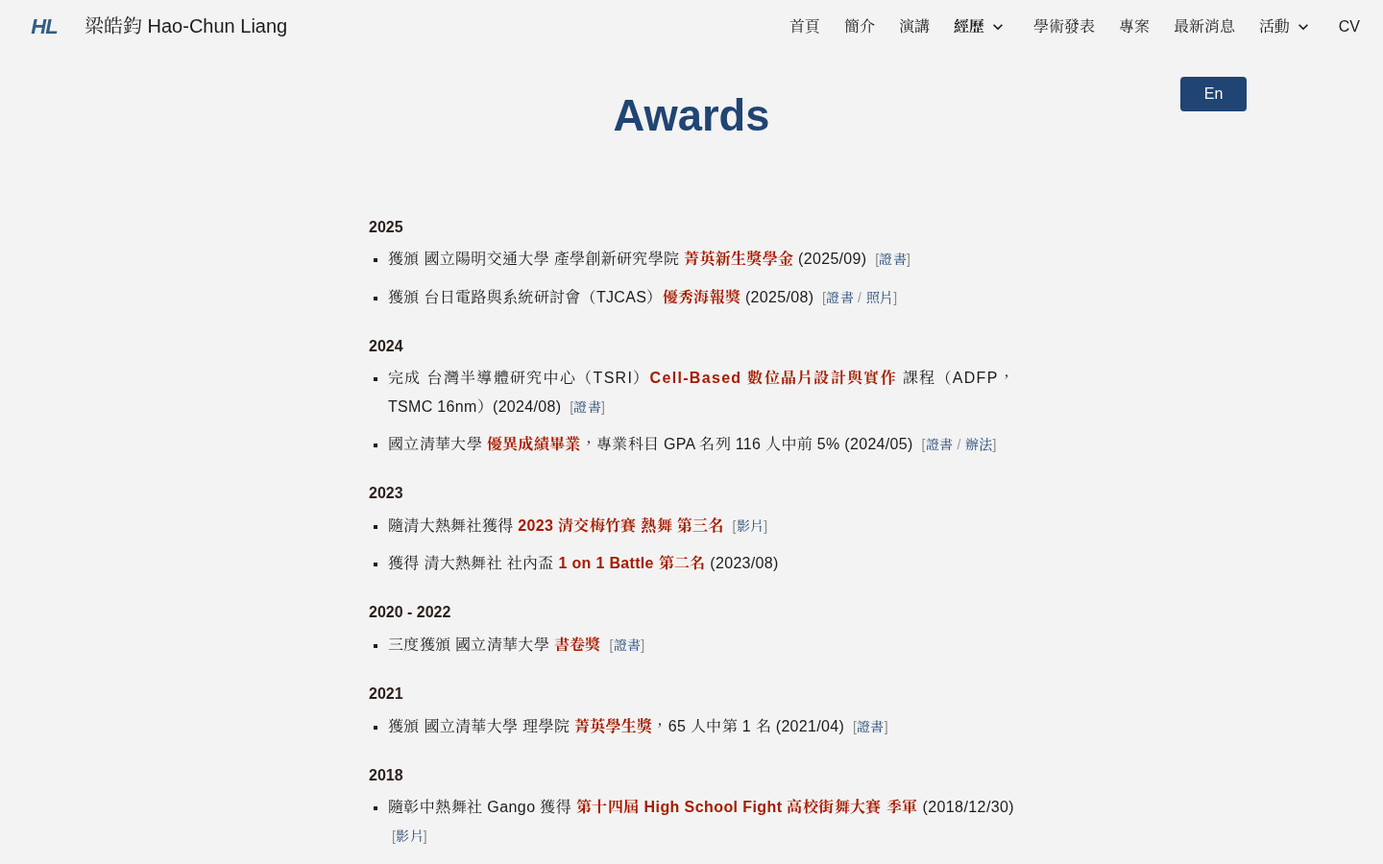
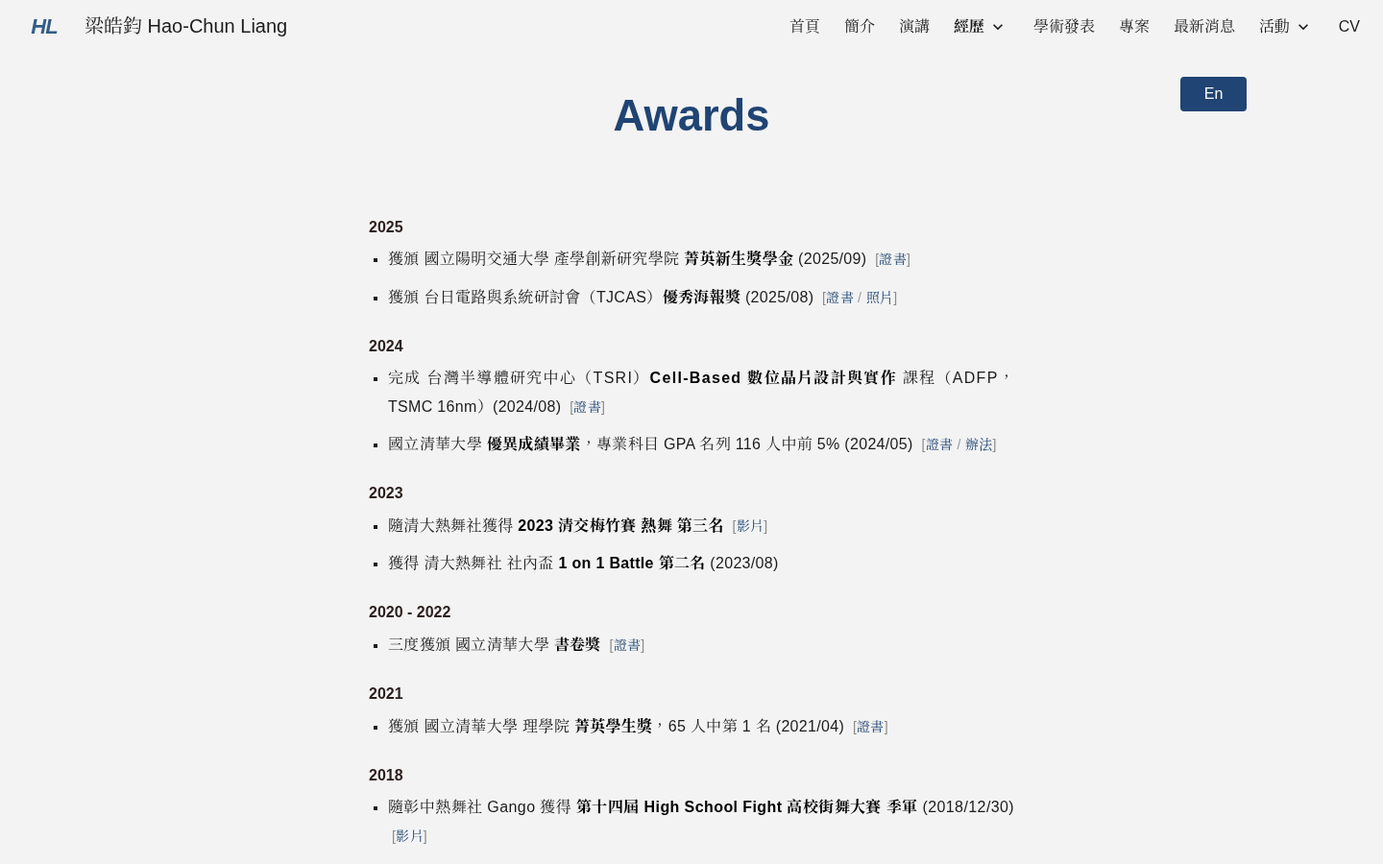
Links and emphasis follow academic convention; internal links land where expected
- Links: navy, regular weight, thin underline (was red bold)
- Red emphasis removed: .hl is plain text except award names on the Awards
  pages (bold black); own author name bold black without underline;
  publication notes gray
- Repeated links on one page keep only the first (Experience, CV, News)
- Awards [Video] jumps to the exact video (Mei-Chu 2023, High School Fight
  2018, Tantui 2015); Gango jumps to the High School section
- CV: paper titles no longer link back to the site; TGDA added with arXiv
- main [id] clears the sticky header. CSS v34

Claude-Session: https://claude.ai/code/session_01YYQQxzKC9fV2djn5XGgtNn

diff --git a/cv/index.html b/cv/index.html
@@ -26,7 +26,7 @@
   <link rel="preconnect" href="https://fonts.googleapis.com">
   <link rel="preconnect" href="https://fonts.gstatic.com" crossorigin>
   <link rel="stylesheet" href="https://fonts.googleapis.com/css2?family=Noto+Serif+TC:wght@400;700&amp;display=swap">
-  <link rel="stylesheet" href="/assets/gsite.css?v=33">
+  <link rel="stylesheet" href="/assets/gsite.css?v=34">
 </head>
 <body>
 
@@ -92,8 +92,8 @@
     <ul class="list">
       <li><a href="https://www.andestech.com/en/" target="_blank" rel="noopener">Andes Technology Corporation</a> Digital IC Design Intern, Compute Acceleration R&amp;D Division, Deep Learning Accelerator <span class="when">(2026/07 - Present)</span></li>
       <li><a href="https://sites.google.com/nycu.edu.tw/pcs-lab/" target="_blank" rel="noopener">Parallel Computing System Laboratory</a>, NYCU, Graduate Research Assistant <span class="when">(2025/09 - 2027/06, exp.)</span></li>
-      <li><a href="https://sites.google.com/nycu.edu.tw/pcs-lab/" target="_blank" rel="noopener">Parallel Computing System Laboratory</a>, NYCU, IT Manager <span class="when">(2025/09 - 2027/06, exp.)</span></li>
-      <li><a href="https://www.andestech.com/en/" target="_blank" rel="noopener">Andes Technology Corporation</a> Digital IC Design Intern, Compute Acceleration R&amp;D Division, Deep Learning Accelerator <span class="when">(2024/11 - 2025/08)</span> <span class="chips"><a class="chip" href="/images/andes-farewell.jpg">Photo</a></span></li>
+      <li>Parallel Computing System Laboratory, NYCU, IT Manager <span class="when">(2025/09 - 2027/06, exp.)</span></li>
+      <li>Andes Technology Corporation Digital IC Design Intern, Compute Acceleration R&amp;D Division, Deep Learning Accelerator <span class="when">(2024/11 - 2025/08)</span> <span class="chips"><a class="chip" href="/images/andes-farewell.jpg">Photo</a></span></li>
     </ul>
   </section>
 
@@ -122,10 +122,11 @@
   <section class="section">
     <h2>Selected Publications</h2>
     <ol class="cite-list">
-      <li><span class="me">Hao-Chun Liang</span>, Yuan-Tang Chou, Bo-Cheng Lai, "<a href="/publications/#fastml-gpu-tracking">Real-Time GPU Kalman-Filter Tracking via Kernel Refactoring and INT8 Surrogates for High-Luminosity Colliders</a>," <span class="venue">Fast Machine Learning for Science Conference, ETH Zurich, 2025</span>. <span class="note">(First Author)</span></li>
-      <li>Yun-Chen Yang, <span class="me">Hao-Chun Liang</span>, Hsuan-Wei Yu, Edwin Arkel Rios, Santosh Parajuli, Mark S. Neubauer, Shih-Chieh Hsu, Bo-Cheng Lai, "<a href="/publications/#unitrac">UniTrac: A Unified FPGA Accelerator for GNN-based Particle Track Reconstruction in HEPs</a>," <span class="venue">ACM Transactions on Reconfigurable Technology and Systems, 2026</span>. <span class="note">(Accepted; Corresponding Author)</span></li>
-      <li>Yun-Chen Yang, <span class="me">Hao-Chun Liang</span>, Bo-Cheng Lai, "<a href="/publications/#gnn-fpga-vlsi">A High-Performance Implementation of GNN-Based Trajectory Reconstruction on FPGA</a>," <span class="venue">VLSI Design / CAD Symposium, 2025</span>.</li>
-      <li>Yun-Chen Yang, <span class="me">Hao-Chun Liang</span>, Hsuan-Wei Yu, Bo-Cheng Lai, Shih-Chieh Hsu, Mark Neubauer, Santosh Parajuli, "<a href="/publications/#higtr-tjcas">An Integrated FPGA Implementation of Complete GNN-Based Trajectory Reconstruction</a>," <span class="venue">Taiwan and Japan Conference on Circuits and Systems, 2025</span>. <span class="note">(Excellent Poster Award)</span></li>
+      <li><span class="me">Hao-Chun Liang</span>, Yuan-Tang Chou, Bo-Cheng Lai, "Real-Time GPU Kalman-Filter Tracking via Kernel Refactoring and INT8 Surrogates for High-Luminosity Colliders," <span class="venue">Fast Machine Learning for Science Conference, ETH Zurich, 2025</span>. <span class="note">(First Author)</span></li>
+      <li>Yun-Chen Yang, <span class="me">Hao-Chun Liang</span>, Hsuan-Wei Yu, Edwin Arkel Rios, Santosh Parajuli, Mark S. Neubauer, Shih-Chieh Hsu, Bo-Cheng Lai, "UniTrac: A Unified FPGA Accelerator for GNN-based Particle Track Reconstruction in HEPs," <span class="venue">ACM Transactions on Reconfigurable Technology and Systems, 2026</span>. <span class="note">(Accepted; Corresponding Author)</span></li>
+      <li>Edwin Arkel Rios, Fernando Mikael, Oswin Gosal, Femiloye Oyerinde, Chi-Jui Chen, <span class="me">Hao-Chun Liang</span>, Pronay Sarker, Bo-Cheng Lai, Min-Chun Hu, "Towards Fine-Grained Image Recognition from Scratch with Teacher-Guided Data Augmentation," <span class="venue">ACCV 2026 Workshop on Learning from Small Data in Computer Vision (LFSD-CV), 2026</span>. <span class="note">(Accepted; Sixth Author)</span> <span class="chips"><a class="chip" href="https://arxiv.org/abs/2507.12157" target="_blank" rel="noopener">arXiv</a></span></li>
+      <li>Yun-Chen Yang, <span class="me">Hao-Chun Liang</span>, Bo-Cheng Lai, "A High-Performance Implementation of GNN-Based Trajectory Reconstruction on FPGA," <span class="venue">VLSI Design / CAD Symposium, 2025</span>.</li>
+      <li>Yun-Chen Yang, <span class="me">Hao-Chun Liang</span>, Hsuan-Wei Yu, Bo-Cheng Lai, Shih-Chieh Hsu, Mark Neubauer, Santosh Parajuli, "An Integrated FPGA Implementation of Complete GNN-Based Trajectory Reconstruction," <span class="venue">Taiwan and Japan Conference on Circuits and Systems, 2025</span>. <span class="note">(Excellent Poster Award)</span></li>
     </ol>
   </section>
 

diff --git a/assets/gsite.css b/assets/gsite.css
@@ -61,8 +61,9 @@ body > main { flex: 1 0 auto; }
 
 img { max-width: 100%; height: auto; display: block; }
 
-a { color: var(--red); font-weight: 700; text-decoration: underline; text-underline-offset: 2px; }
-a:hover { color: #7a1400; }
+/* Owner ruling 2026-11-17: links are navy, regular weight, thin underline (academic convention) */
+a { color: var(--navy); font-weight: 400; text-decoration: underline; text-decoration-thickness: 1px; text-underline-offset: 3px; text-decoration-color: rgba(32, 68, 115, 0.45); }
+a:hover { color: #142c4d; text-decoration-color: currentColor; }
 a:focus-visible,
 button:focus-visible { outline: 2px solid var(--navy); outline-offset: 2px; border-radius: 2px; }
 
@@ -319,7 +320,9 @@ button:focus-visible { outline: 2px solid var(--navy); outline-offset: 2px; bord
   line-height: 22px;
 }
 .list > li::marker { font-size: 0.85em; }
-.list .hl { color: var(--red); font-weight: 700; }
+.list .hl { color: inherit; font-weight: 400; }
+/* Bold black stays only where it marks something: award names on the Awards pages */
+.awards-page .list .hl { color: var(--ink-strong); font-weight: 700; }
 .list .sub {
   display: block;
   margin-top: 2px;
@@ -338,9 +341,9 @@ button:focus-visible { outline: 2px solid var(--navy); outline-offset: 2px; bord
   line-height: 22px;
   scroll-margin-top: calc(var(--header-h) + 16px);
 }
-.cite-list .me { font-weight: 700; text-decoration: underline; text-underline-offset: 2px; }
+.cite-list .me { font-weight: 700; color: var(--ink-strong); }
 .cite-list .venue { font-style: italic; }
-.cite-list .note { color: var(--red); font-weight: 700; }
+.cite-list .note { color: #666; font-weight: 400; }
 .cite-list .links { margin-left: 2px; }
 .cite-list .links a { font-weight: 400; margin-right: 6px; }
 .cite-list .lineage {
@@ -369,7 +372,7 @@ button:focus-visible { outline: 2px solid var(--navy); outline-offset: 2px; bord
   text-decoration: none;
 }
 .chip + .chip::before { content: "\00a0/\00a0"; display: inline-block; color: #9a9a9a; }
-.chip:hover { color: var(--red); text-decoration: underline; }
+.chip:hover { color: #142c4d; text-decoration: underline; }
 
 /* Avoid a lonely word or two on the last line of a paragraph or item;
    headings and captions are balanced instead. Browsers without support
@@ -798,8 +801,7 @@ html[lang="zh-Hant-TW"] :is(.bio p, .section > p, .list > li, .cite-list > li, .
   margin-right: 0;
 }
 
-/* bold stays where it marks a name: awards, project titles, list labels */
-.list .hl,
+/* bold stays where it marks a name: project titles, list labels */
 .project-list > li,
 #research .list > li,
 #skills .list > li { font-weight: 700; }
@@ -947,3 +949,6 @@ html[lang="zh-Hant-TW"] :is(.bio p, .section > p, .list > li, .cite-list > li, .
 /* Chinese has no true italic; slanted CJK (synthesized oblique) reads poorly */
 :lang(zh-Hant-TW) :is(.page-title, .motto, .band-title, .activity-title, .cite-list .venue, em, i),
 .page-title:lang(zh-Hant-TW), .motto:lang(zh-Hant-TW) { font-style: normal; }
+
+/* in-page targets (award video links, Gango) clear the sticky header */
+main [id] { scroll-margin-top: calc(var(--header-h) + 16px); }

diff --git a/activity/pop-dance-club/index.html b/activity/pop-dance-club/index.html
@@ -29,7 +29,7 @@
   <link rel="preconnect" href="https://fonts.googleapis.com">
   <link rel="preconnect" href="https://fonts.gstatic.com" crossorigin>
   <link rel="stylesheet" href="https://fonts.googleapis.com/css2?family=Noto+Serif+TC:wght@400;700&amp;display=swap">
-  <link rel="stylesheet" href="/assets/gsite.css?v=33">
+  <link rel="stylesheet" href="/assets/gsite.css?v=34">
 </head>
 <body>
 
@@ -84,7 +84,7 @@
         </button>
         <figcaption><strong>Seniors’ Piece, 2024 NTHU PDC 32nd Annual Showcase “舞うの回憶”</strong><span class="yt-title">YouTube: <a href="https://www.youtube.com/watch?v=Qfgibe6YsaE" target="_blank" rel="noopener">老人趴 抱歉還沒追蹤你－2024清大熱舞32屆大型成果發表 &quot;舞うの回憶&quot;｜20240601</a></span></figcaption>
       </figure>
-      <figure class="video">
+      <figure class="video" id="mei-chu-2023">
         <button class="yt-facade" type="button" data-yt="Z_xok3B-W1s" aria-label="Play video: 2023 Mei-Chu Tournament (NTHU vs. NYCU), Street Dance, Third Place">
           <img src="/images/activity/meichu-2023.jpg" alt="" width="1280" height="720" loading="lazy">
           <svg class="play" viewBox="0 0 68 48" aria-hidden="true"><path d="M66.5 7.7c-.8-2.9-3-5.2-5.9-6C55.3.3 34 .3 34 .3S12.7.3 7.4 1.7c-2.9.8-5.1 3.1-5.9 6C.1 13 .1 24 .1 24s0 11 1.4 16.3c.8 2.9 3 5.2 5.9 6C12.7 47.7 34 47.7 34 47.7s21.3 0 26.6-1.4c2.9-.8 5.1-3.1 5.9-6C67.9 35 67.9 24 67.9 24s0-11-1.4-16.3z" fill="#f00"/><path d="M45 24 27 14v20z" fill="#fff"/></svg>
@@ -122,11 +122,11 @@
     </div>
   </section>
 
-  <section class="section">
+  <section class="section" id="high-school">
     <h2>High School</h2>
     <p class="club-name">Gango, <span lang="zh-Hant-TW">彰化高中熱舞社</span> (Changhua Senior High School)</p>
     <div class="video-grid">
-      <figure class="video">
+      <figure class="video" id="high-school-fight-2018">
         <button class="yt-facade" type="button" data-yt="dAl6dPGgeEM" aria-label="Play video: Gango, Changhua Senior High School: Third Place, 14th High School Fight Street Dance Competition, Dec 30, 2018">
           <img src="/images/activity/gango-hsfight-2018.jpg" alt="" width="1280" height="720" loading="lazy">
           <svg class="play" viewBox="0 0 68 48" aria-hidden="true"><path d="M66.5 7.7c-.8-2.9-3-5.2-5.9-6C55.3.3 34 .3 34 .3S12.7.3 7.4 1.7c-2.9.8-5.1 3.1-5.9 6C.1 13 .1 24 .1 24s0 11 1.4 16.3c.8 2.9 3 5.2 5.9 6C12.7 47.7 34 47.7 34 47.7s21.3 0 26.6-1.4c2.9-.8 5.1-3.1 5.9-6C67.9 35 67.9 24 67.9 24s0-11-1.4-16.3z" fill="#f00"/><path d="M45 24 27 14v20z" fill="#fff"/></svg>

diff --git a/experience/index.html b/experience/index.html
@@ -29,7 +29,7 @@
   <link rel="preconnect" href="https://fonts.googleapis.com">
   <link rel="preconnect" href="https://fonts.gstatic.com" crossorigin>
   <link rel="stylesheet" href="https://fonts.googleapis.com/css2?family=Noto+Serif+TC:wght@400;700&amp;display=swap">
-  <link rel="stylesheet" href="/assets/gsite.css?v=33">
+  <link rel="stylesheet" href="/assets/gsite.css?v=34">
 </head>
 <body>
 
@@ -78,13 +78,13 @@
     <ul class="list">
       <li>Digital IC Design Intern, <a href="https://www.andestech.com/en/" target="_blank" rel="noopener">Andes Technology Corporation</a>, Deep Learning Accelerator, Compute Acceleration R&amp;D Division <span class="when">(2026/07 - Present)</span></li>
       <li>Graduate Research Assistant, <a href="https://sites.google.com/nycu.edu.tw/pcs-lab/" target="_blank" rel="noopener">Parallel Computing System Laboratory</a>, NYCU <span class="when">(2025/09 - 2027/06, exp.)</span></li>
-      <li>IT Manager, <a href="https://sites.google.com/nycu.edu.tw/pcs-lab/" target="_blank" rel="noopener">Parallel Computing System Laboratory</a>, NYCU <span class="when">(2025/09 - 2027/06, exp.)</span></li>
+      <li>IT Manager, Parallel Computing System Laboratory, NYCU <span class="when">(2025/09 - 2027/06, exp.)</span></li>
     </ul>
     <h3 class="group">Past</h3>
     <ul class="list">
-      <li>Digital IC Design Intern, <a href="https://www.andestech.com/en/" target="_blank" rel="noopener">Andes Technology Corporation</a>, Deep Learning Accelerator, Compute Acceleration R&amp;D Division <span class="when">(2024/11 - 2025/08)</span> <span class="chips"><a class="chip" href="/images/andes-farewell.jpg">Photo</a></span></li>
+      <li>Digital IC Design Intern, Andes Technology Corporation, Deep Learning Accelerator, Compute Acceleration R&amp;D Division <span class="when">(2024/11 - 2025/08)</span> <span class="chips"><a class="chip" href="/images/andes-farewell.jpg">Photo</a></span></li>
       <li>Teaching Assistant, General Physics Laboratory, National Tsing Hua University <span class="when">(Fall 2023)</span> <span class="chips"><a class="chip" href="/images/activity/gallery/ta-178-physics-lab.jpg">Photo</a></span></li>
-      <li>Public Relations Officer, <a href="/activity/pop-dance-club/">Gango</a>, the dance club of National Changhua Senior High School <span class="when">(2018/09 - 2019/06)</span></li>
+      <li>Public Relations Officer, <a href="/activity/pop-dance-club/#high-school">Gango</a>, the dance club of National Changhua Senior High School <span class="when">(2018/09 - 2019/06)</span></li>
     </ul>
   </section>
 

diff --git a/zh/activity/pop-dance-club/index.html b/zh/activity/pop-dance-club/index.html
@@ -29,7 +29,7 @@
   <link rel="preconnect" href="https://fonts.googleapis.com">
   <link rel="preconnect" href="https://fonts.gstatic.com" crossorigin>
   <link rel="stylesheet" href="https://fonts.googleapis.com/css2?family=Noto+Serif+TC:wght@400;700&amp;display=swap">
-  <link rel="stylesheet" href="/assets/gsite.css?v=33">
+  <link rel="stylesheet" href="/assets/gsite.css?v=34">
 </head>
 <body>
 
@@ -84,7 +84,7 @@
         </button>
         <figcaption><strong>老人趴，2024 清大熱舞 32 屆大型成果發表「舞うの回憶」</strong><span class="yt-title">YouTube: <a href="https://www.youtube.com/watch?v=Qfgibe6YsaE" target="_blank" rel="noopener">老人趴 抱歉還沒追蹤你－2024清大熱舞32屆大型成果發表 &quot;舞うの回憶&quot;｜20240601</a></span></figcaption>
       </figure>
-      <figure class="video">
+      <figure class="video" id="mei-chu-2023">
         <button class="yt-facade" type="button" data-yt="Z_xok3B-W1s" aria-label="播放影片：2023 清交梅竹賽 熱舞 第三名">
           <img src="/images/activity/meichu-2023.jpg" alt="" width="1280" height="720" loading="lazy">
           <svg class="play" viewBox="0 0 68 48" aria-hidden="true"><path d="M66.5 7.7c-.8-2.9-3-5.2-5.9-6C55.3.3 34 .3 34 .3S12.7.3 7.4 1.7c-2.9.8-5.1 3.1-5.9 6C.1 13 .1 24 .1 24s0 11 1.4 16.3c.8 2.9 3 5.2 5.9 6C12.7 47.7 34 47.7 34 47.7s21.3 0 26.6-1.4c2.9-.8 5.1-3.1 5.9-6C67.9 35 67.9 24 67.9 24s0-11-1.4-16.3z" fill="#f00"/><path d="M45 24 27 14v20z" fill="#fff"/></svg>
@@ -122,11 +122,11 @@
     </div>
   </section>
 
-  <section class="section">
+  <section class="section" id="high-school">
     <h2>高中時期</h2>
     <p class="club-name"><span lang="zh-Hant-TW">彰化高中熱舞社 Gango</span></p>
     <div class="video-grid">
-      <figure class="video">
+      <figure class="video" id="high-school-fight-2018">
         <button class="yt-facade" type="button" data-yt="dAl6dPGgeEM" aria-label="播放影片：彰化高中 Gango，第十四屆 High School Fight 高校街舞大賽 第三名，2018/12/30">
           <img src="/images/activity/gango-hsfight-2018.jpg" alt="" width="1280" height="720" loading="lazy">
           <svg class="play" viewBox="0 0 68 48" aria-hidden="true"><path d="M66.5 7.7c-.8-2.9-3-5.2-5.9-6C55.3.3 34 .3 34 .3S12.7.3 7.4 1.7c-2.9.8-5.1 3.1-5.9 6C.1 13 .1 24 .1 24s0 11 1.4 16.3c.8 2.9 3 5.2 5.9 6C12.7 47.7 34 47.7 34 47.7s21.3 0 26.6-1.4c2.9-.8 5.1-3.1 5.9-6C67.9 35 67.9 24 67.9 24s0-11-1.4-16.3z" fill="#f00"/><path d="M45 24 27 14v20z" fill="#fff"/></svg>

diff --git a/zh/experience/index.html b/zh/experience/index.html
@@ -29,7 +29,7 @@
   <link rel="preconnect" href="https://fonts.googleapis.com">
   <link rel="preconnect" href="https://fonts.gstatic.com" crossorigin>
   <link rel="stylesheet" href="https://fonts.googleapis.com/css2?family=Noto+Serif+TC:wght@400;700&amp;display=swap">
-  <link rel="stylesheet" href="/assets/gsite.css?v=33">
+  <link rel="stylesheet" href="/assets/gsite.css?v=34">
 </head>
 <body>
 
@@ -78,13 +78,13 @@
     <ul class="list">
       <li><a href="https://www.andestech.com/en/" target="_blank" rel="noopener">晶心科技</a> 運算加速研發處 深度學習加速器 數位 IC 設計實習生 <span class="when">(2026/07 - 至今)</span></li>
       <li>國立陽明交通大學 <a href="https://sites.google.com/nycu.edu.tw/pcs-lab/" target="_blank" rel="noopener">平行計算系統實驗室</a> 研究助理 <span class="when">(2025/09 - 2027/06，預計)</span></li>
-      <li>國立陽明交通大學 <a href="https://sites.google.com/nycu.edu.tw/pcs-lab/" target="_blank" rel="noopener">平行計算系統實驗室</a> 網管 <span class="when">(2025/09 - 2027/06，預計)</span></li>
+      <li>國立陽明交通大學 平行計算系統實驗室 網管 <span class="when">(2025/09 - 2027/06，預計)</span></li>
     </ul>
     <h3 class="group">經歷</h3>
     <ul class="list">
-      <li><a href="https://www.andestech.com/en/" target="_blank" rel="noopener">晶心科技</a> 運算加速研發處 深度學習加速器 數位 IC 設計實習生 <span class="when">(2024/11 - 2025/08)</span> <span class="chips"><a class="chip" href="/images/andes-farewell.jpg">照片</a></span></li>
+      <li>晶心科技 運算加速研發處 深度學習加速器 數位 IC 設計實習生 <span class="when">(2024/11 - 2025/08)</span> <span class="chips"><a class="chip" href="/images/andes-farewell.jpg">照片</a></span></li>
       <li>國立清華大學 普通物理實驗 助教 <span class="when">(112 上)</span> <span class="chips"><a class="chip" href="/images/activity/gallery/ta-178-physics-lab.jpg">照片</a></span></li>
-      <li>國立彰化高級中學 <a href="/zh/activity/pop-dance-club/">熱舞社 Gango</a> 公關 <span class="when">(2018/09 - 2019/06)</span></li>
+      <li>國立彰化高級中學 <a href="/zh/activity/pop-dance-club/#high-school">熱舞社 Gango</a> 公關 <span class="when">(2018/09 - 2019/06)</span></li>
     </ul>
   </section>
 

diff --git a/experience/awards/index.html b/experience/awards/index.html
@@ -29,7 +29,7 @@
   <link rel="preconnect" href="https://fonts.googleapis.com">
   <link rel="preconnect" href="https://fonts.gstatic.com" crossorigin>
   <link rel="stylesheet" href="https://fonts.googleapis.com/css2?family=Noto+Serif+TC:wght@400;700&amp;display=swap">
-  <link rel="stylesheet" href="/assets/gsite.css?v=33">
+  <link rel="stylesheet" href="/assets/gsite.css?v=34">
 </head>
 <body>
 
@@ -66,7 +66,7 @@
   </div>
 </header>
 
-<main class="page" id="main">
+<main class="page awards-page" id="main">
 
   <div class="title-row">
     <h1 class="page-title" lang="en">Awards</h1>
@@ -86,7 +86,7 @@
     </ul>
     <h3 class="group">2023</h3>
     <ul class="list">
-      <li><span class="hl">Third Place, Street Dance</span>, 2023 Mei-Chu Tournament (NTHU vs. NYCU), with the NTHU Pop Dance Club <span class="chips"><a class="chip" href="/activity/pop-dance-club/">Video</a></span></li>
+      <li><span class="hl">Third Place, Street Dance</span>, 2023 Mei-Chu Tournament (NTHU vs. NYCU), with the NTHU Pop Dance Club <span class="chips"><a class="chip" href="/activity/pop-dance-club/#mei-chu-2023">Video</a></span></li>
       <li><span class="hl">Second Place, 1-on-1 Battle</span>, NTHU Pop Dance Club in-club cup (2023/08)</li>
     </ul>
     <h3 class="group">2020 - 2022</h3>
@@ -99,11 +99,11 @@
     </ul>
     <h3 class="group">2018</h3>
     <ul class="list">
-      <li><span class="hl">Third Place</span> with Gango, 14th High School Fight street dance competition (2018/12/30) <span class="chips"><a class="chip" href="/activity/pop-dance-club/">Video</a></span></li>
+      <li><span class="hl">Third Place</span> with Gango, 14th High School Fight street dance competition (2018/12/30) <span class="chips"><a class="chip" href="/activity/pop-dance-club/#high-school-fight-2018">Video</a></span></li>
     </ul>
     <h3 class="group">2015</h3>
     <ul class="list">
-      <li><span class="hl">First Place</span>, Junior High Boys&rsquo; Individual, National Chinese Martial Arts Tantui Championship (2015) <span class="chips"><a class="chip" href="/activity/martial-arts/">Video</a></span></li>
+      <li><span class="hl">First Place</span>, Junior High Boys&rsquo; Individual, National Chinese Martial Arts Tantui Championship (2015) <span class="chips"><a class="chip" href="/activity/martial-arts/#tantui-2015">Video</a></span></li>
     </ul>
   </section>
 

diff --git a/zh/experience/awards/index.html b/zh/experience/awards/index.html
@@ -29,7 +29,7 @@
   <link rel="preconnect" href="https://fonts.googleapis.com">
   <link rel="preconnect" href="https://fonts.gstatic.com" crossorigin>
   <link rel="stylesheet" href="https://fonts.googleapis.com/css2?family=Noto+Serif+TC:wght@400;700&amp;display=swap">
-  <link rel="stylesheet" href="/assets/gsite.css?v=33">
+  <link rel="stylesheet" href="/assets/gsite.css?v=34">
 </head>
 <body>
 
@@ -66,7 +66,7 @@
   </div>
 </header>
 
-<main class="page" id="main">
+<main class="page awards-page" id="main">
 
   <div class="title-row">
     <h1 class="page-title" lang="en">Awards</h1>
@@ -86,7 +86,7 @@
     </ul>
     <h3 class="group">2023</h3>
     <ul class="list">
-      <li>隨清大熱舞社獲得 <span class="hl">2023 清交梅竹賽 熱舞 第三名</span> <span class="chips"><a class="chip" href="/zh/activity/pop-dance-club/">影片</a></span></li>
+      <li>隨清大熱舞社獲得 <span class="hl">2023 清交梅竹賽 熱舞 第三名</span> <span class="chips"><a class="chip" href="/zh/activity/pop-dance-club/#mei-chu-2023">影片</a></span></li>
       <li>獲得 清大熱舞社 社內盃 <span class="hl">1 on 1 Battle 第二名</span> (2023/08)</li>
     </ul>
     <h3 class="group">2020 - 2022</h3>
@@ -99,11 +99,11 @@
     </ul>
     <h3 class="group">2018</h3>
     <ul class="list">
-      <li>隨彰中熱舞社 Gango 獲得 <span class="hl">第十四屆 High School Fight 高校街舞大賽 季軍</span> (2018/12/30) <span class="chips"><a class="chip" href="/zh/activity/pop-dance-club/">影片</a></span></li>
+      <li>隨彰中熱舞社 Gango 獲得 <span class="hl">第十四屆 High School Fight 高校街舞大賽 季軍</span> (2018/12/30) <span class="chips"><a class="chip" href="/zh/activity/pop-dance-club/#high-school-fight-2018">影片</a></span></li>
     </ul>
     <h3 class="group">2015</h3>
     <ul class="list">
-      <li>獲得 國術彈腿全國錦標賽 <span class="hl">國中男子個人賽 第一名</span> (2015) <span class="chips"><a class="chip" href="/zh/activity/martial-arts/">影片</a></span></li>
+      <li>獲得 國術彈腿全國錦標賽 <span class="hl">國中男子個人賽 第一名</span> (2015) <span class="chips"><a class="chip" href="/zh/activity/martial-arts/#tantui-2015">影片</a></span></li>
     </ul>
   </section>
 

diff --git a/news/index.html b/news/index.html
@@ -29,7 +29,7 @@
   <link rel="preconnect" href="https://fonts.googleapis.com">
   <link rel="preconnect" href="https://fonts.gstatic.com" crossorigin>
   <link rel="stylesheet" href="https://fonts.googleapis.com/css2?family=Noto+Serif+TC:wght@400;700&amp;display=swap">
-  <link rel="stylesheet" href="/assets/gsite.css?v=33">
+  <link rel="stylesheet" href="/assets/gsite.css?v=34">
 </head>
 <body>
 
@@ -88,7 +88,7 @@
       <li><time datetime="2025-09">2025/09</time> <span class="what">Began the M.Eng. program at NYCU as a graduate research assistant in the PCS Lab.</span></li>
       <li><time datetime="2025-08">2025/08</time> <span class="what">Received the Excellent Poster Award at TJCAS 2025.</span></li>
       <li><time datetime="2025-07">2025/07</time> <span class="what">Our paper on fine-grained image recognition from scratch with teacher-guided data augmentation (TGDA) is on <a href="https://arxiv.org/abs/2507.12157" target="_blank" rel="noopener">arXiv</a>.</span></li>
-      <li><time datetime="2024-11">2024/11</time> <span class="what">Joined <a href="https://www.andestech.com/en/" target="_blank" rel="noopener">Andes Technology</a> as a digital IC design intern.</span></li>
+      <li><time datetime="2024-11">2024/11</time> <span class="what">Joined Andes Technology as a digital IC design intern.</span></li>
       <li><time datetime="2024-06">2024/06</time> <span class="what">Graduated with distinction in Electrical Engineering from NTHU.</span></li>
     </ul>
   </section>

diff --git a/zh/news/index.html b/zh/news/index.html
@@ -29,7 +29,7 @@
   <link rel="preconnect" href="https://fonts.googleapis.com">
   <link rel="preconnect" href="https://fonts.gstatic.com" crossorigin>
   <link rel="stylesheet" href="https://fonts.googleapis.com/css2?family=Noto+Serif+TC:wght@400;700&amp;display=swap">
-  <link rel="stylesheet" href="/assets/gsite.css?v=33">
+  <link rel="stylesheet" href="/assets/gsite.css?v=34">
 </head>
 <body>
 
@@ -88,7 +88,7 @@
       <li><time datetime="2025-09">2025/09</time> <span class="what">進入陽明交大碩士班，並於 PCS Lab 擔任研究助理。</span></li>
       <li><time datetime="2025-08">2025/08</time> <span class="what">於 TJCAS 2025 獲優秀海報獎。</span></li>
       <li><time datetime="2025-07">2025/07</time> <span class="what">以教師引導資料增強（TGDA）從頭訓練細粒度影像辨識的論文發表於 <a href="https://arxiv.org/abs/2507.12157" target="_blank" rel="noopener">arXiv</a>。</span></li>
-      <li><time datetime="2024-11">2024/11</time> <span class="what">加入<a href="https://www.andestech.com/en/" target="_blank" rel="noopener">晶心科技</a>擔任數位 IC 設計實習生。</span></li>
+      <li><time datetime="2024-11">2024/11</time> <span class="what">加入晶心科技擔任數位 IC 設計實習生。</span></li>
       <li><time datetime="2024-06">2024/06</time> <span class="what">以優異成績畢業於清華大學電機工程學系。</span></li>
     </ul>
   </section>

diff --git a/activity/martial-arts/index.html b/activity/martial-arts/index.html
@@ -29,7 +29,7 @@
   <link rel="preconnect" href="https://fonts.googleapis.com">
   <link rel="preconnect" href="https://fonts.gstatic.com" crossorigin>
   <link rel="stylesheet" href="https://fonts.googleapis.com/css2?family=Noto+Serif+TC:wght@400;700&amp;display=swap">
-  <link rel="stylesheet" href="/assets/gsite.css?v=33">
+  <link rel="stylesheet" href="/assets/gsite.css?v=34">
 </head>
 <body>
 
@@ -77,7 +77,7 @@
     <h2>Tantui (Chinese Martial Arts)</h2>
     <p class="club-name"><span lang="zh-Hant-TW">彰興國中</span>, Changhua</p>
     <div class="video-grid">
-      <figure class="video">
+      <figure class="video" id="tantui-2015">
         <button class="yt-facade" type="button" data-yt="2n1bPFXaegA" aria-label="Play video: First Place, Junior High Boys’ Individual, National Chinese Martial Arts Tantui Championship, 2015, Taishan Gymnasium">
           <img src="/images/activity/tantui-2015.jpg" alt="" width="1280" height="720" loading="lazy">
           <svg class="play" viewBox="0 0 68 48" aria-hidden="true"><path d="M66.5 7.7c-.8-2.9-3-5.2-5.9-6C55.3.3 34 .3 34 .3S12.7.3 7.4 1.7c-2.9.8-5.1 3.1-5.9 6C.1 13 .1 24 .1 24s0 11 1.4 16.3c.8 2.9 3 5.2 5.9 6C12.7 47.7 34 47.7 34 47.7s21.3 0 26.6-1.4c2.9-.8 5.1-3.1 5.9-6C67.9 35 67.9 24 67.9 24s0-11-1.4-16.3z" fill="#f00"/><path d="M45 24 27 14v20z" fill="#fff"/></svg>

diff --git a/zh/activity/martial-arts/index.html b/zh/activity/martial-arts/index.html
@@ -29,7 +29,7 @@
   <link rel="preconnect" href="https://fonts.googleapis.com">
   <link rel="preconnect" href="https://fonts.gstatic.com" crossorigin>
   <link rel="stylesheet" href="https://fonts.googleapis.com/css2?family=Noto+Serif+TC:wght@400;700&amp;display=swap">
-  <link rel="stylesheet" href="/assets/gsite.css?v=33">
+  <link rel="stylesheet" href="/assets/gsite.css?v=34">
 </head>
 <body>
 
@@ -77,7 +77,7 @@
     <h2>國術彈腿</h2>
     <p class="club-name">彰興國中</p>
     <div class="video-grid">
-      <figure class="video">
+      <figure class="video" id="tantui-2015">
         <button class="yt-facade" type="button" data-yt="2n1bPFXaegA" aria-label="播放影片：國術彈腿全國錦標賽 國中男子個人賽 第一名，2015，泰山體育館">
           <img src="/images/activity/tantui-2015.jpg" alt="" width="1280" height="720" loading="lazy">
           <svg class="play" viewBox="0 0 68 48" aria-hidden="true"><path d="M66.5 7.7c-.8-2.9-3-5.2-5.9-6C55.3.3 34 .3 34 .3S12.7.3 7.4 1.7c-2.9.8-5.1 3.1-5.9 6C.1 13 .1 24 .1 24s0 11 1.4 16.3c.8 2.9 3 5.2 5.9 6C12.7 47.7 34 47.7 34 47.7s21.3 0 26.6-1.4c2.9-.8 5.1-3.1 5.9-6C67.9 35 67.9 24 67.9 24s0-11-1.4-16.3z" fill="#f00"/><path d="M45 24 27 14v20z" fill="#fff"/></svg>
